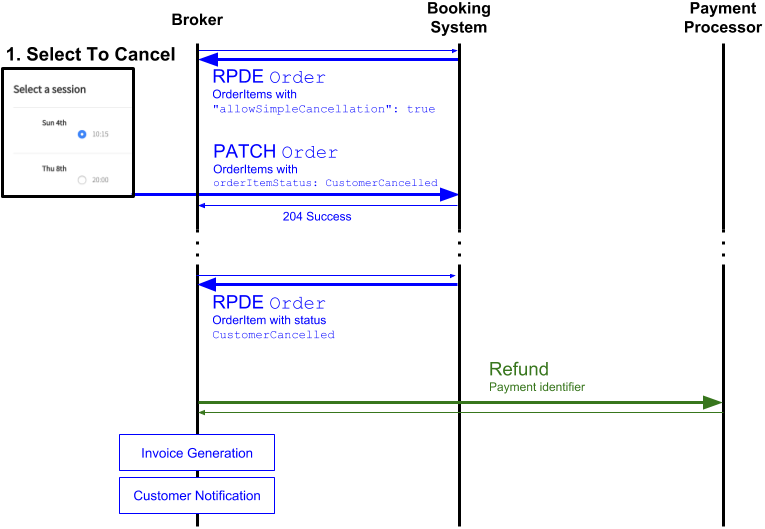
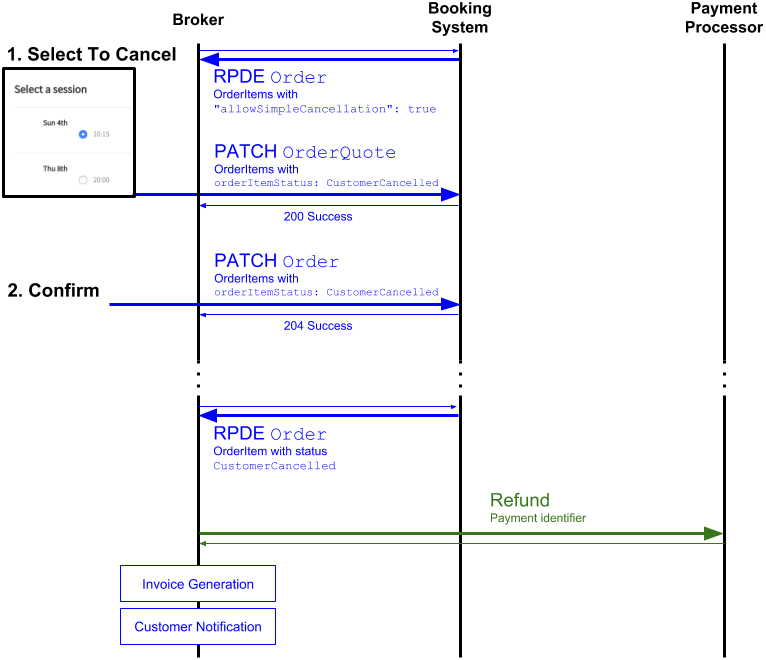
Added cancellation dry-run

diff --git a/EditorsDraft/index.html b/EditorsDraft/index.html
@@ -1158,20 +1158,18 @@ The scope of this specification does not include the contractual relationship wi
 ]</pre>
         </div></section></section><section id="amending-the-orderquote-before-b"><h3 id="x8-2-amending-the-orderquote-before-b"><span class="secno">8.2 </span>Amending the OrderQuote before <strong>B</strong><a class="self-link" aria-label="§" href="#amending-the-orderquote-before-b"></a></h3><p>The <a href="#dfn-broker" class="internalDFN" data-link-type="dfn">Broker</a> <em class="rfc2119" title="MAY">MAY</em> call <strong>C1</strong> and <em class="rfc2119" title="MUST">MUST</em> call <strong>C2</strong> when the <a href="#dfn-customer" class="internalDFN" data-link-type="dfn">Customer</a> updates their basket to add and remove items.</p><p>When repeated calls to <strong>C1</strong> or <strong>C2</strong> are made with the same UUID, the <a href="#dfn-booking-system" class="internalDFN" data-link-type="dfn">Booking System</a> <em class="rfc2119" title="MUST">MUST</em> expire the leases of items that have been removed from the basket.</p><p>All leases may be cancelled by submitting an <code>OrderQuote</code> with the same UUID but without any <code>orderItem</code>s as either <strong>C1</strong> or <strong>C2</strong>. The <a href="#dfn-broker" class="internalDFN" data-link-type="dfn">Broker</a> <em class="rfc2119" title="SHOULD">SHOULD</em> make a reasonable attempt to cancel all leases when it is aware that a <a href="#dfn-customer" class="internalDFN" data-link-type="dfn">Customer</a> has abandoned their journey. For <a href="#dfn-booking-system" class="internalDFN" data-link-type="dfn">Booking Systems</a> that have not implemented leasing, an <code>OrderQuote</code> without any <code>orderItem</code>s can simply be ignored.</p></section><section id="cancellation-after-b"><h3 id="x8-3-cancellation-after-b"><span class="secno">8.3 </span>Cancellation after <strong>B</strong><a class="self-link" aria-label="§" href="#cancellation-after-b"></a></h3><p>Either the whole <code>Order</code> or individual <code>OrderItem</code>s within the <code>Order</code> may be cancelled after <strong>B</strong>, however <code>OrderItem</code>s cannot be replaced or added to an existing <code>Order</code> within this version of the specification.</p><p>The cancellation may be requested by either the <a href="#dfn-customer" class="internalDFN" data-link-type="dfn">Customer</a> or the <a href="#dfn-seller" class="internalDFN" data-link-type="dfn">Seller</a>, and results in an updated <code>Order</code> item on the <a href="#dfn-orders-feed" class="internalDFN" data-link-type="dfn">Orders feed</a>. Once a cancellation status is placed on an <code>OrderItem</code> within an <code>Order</code> in the <a href="#dfn-orders-feed" class="internalDFN" data-link-type="dfn">Orders feed</a> it is assumed by the <a href="#dfn-booking-system" class="internalDFN" data-link-type="dfn">Booking System</a> to have been processed, and it <em class="rfc2119" title="MUST NOT">MUST NOT</em> be reversed. A new <code>Order</code> will need to created to reinstate the booking.</p><div class="issue" id="issue-container-number-97"><div role="heading" class="issue-title marker" id="h-issue-1" aria-level="4"><a href="https://github.com/openactive/open-booking-api/issues/97"><span class="issue-number">Issue 97</span></a><span class="issue-label" aria-label="This issue is labelled as Community Feedback Requested.">: Arbitrary refunds are not in scope <a class="respec-gh-label respec-label-light" href="https://github.com/openactive/open-booking-api/issues/?q=is%3Aissue+is%3Aopen+label%3A%22Community+Feedback+Requested%22" style="background-color: rgb(150, 224, 234);">Community Feedback Requested</a></span></div><p>Refunds are only permitted for entire items, and partial item refunds (including cancellation fees) are not in scope for this version of the specification.</p>
 <p>Although it is understood that some booking systems support partial item refunds, this is a superset of the functionality currently offered within the specification, so should not be an issue for refunds triggered due to cancellations via the <strong>Broker</strong>. As it stands <strong>Seller</strong> requested cancellation will be limited to whole item refunds and no cancellation fees.</p>
-<p>Please comment if partial item refunds or cancellation fees are essential to your usecase.</p></div><section id="customer-requested-cancellation"><h4 id="x8-3-1-customer-requested-cancellation"><span class="secno">8.3.1 </span>Customer requested cancellation<a class="self-link" aria-label="§" href="#customer-requested-cancellation"></a></h4><figure id="fig-customer-requested-cancellation"><img src="customercancelled.png" alt="Customer requested cancellation" height="529" width="765">
+<p>Please comment if partial item refunds or cancellation fees are essential to your usecase.</p></div><section id="customer-requested-cancellation"><h4 id="x8-3-1-customer-requested-cancellation"><span class="secno">8.3.1 </span>Customer requested cancellation<a class="self-link" aria-label="§" href="#customer-requested-cancellation"></a></h4><figure id="fig-customer-requested-cancellation"><img src="customercancelled.png" alt="Customer requested cancellation" height="660" width="766">
 <figcaption>Figure <span class="figno">9</span> <span class="fig-title">Customer requested cancellation</span></figcaption>
 </figure><p>To cancel an existing OrderItem, the <a href="#dfn-broker" class="internalDFN" data-link-type="dfn">Broker</a> <em class="rfc2119" title="MUST">MUST</em>:</p><ol>
 <li><p>Use the latest state of the <code>Order</code> stored during the booking flow and updated via the <a href="#dfn-orders-feed" class="internalDFN" data-link-type="dfn">Orders feed</a> to determine which <code>OrderItem</code>s may be cancelled. If <code>allowSimpleCancellation</code> is <code>true</code> and <code>latestCancellationBeforeStartDate</code> subtracted from the opportunity <code>startDate</code> is in the future, a PATCH against the <code>Order</code> including the <code>OrderItem</code> with <code>"orderItemStatus": "https://openactive.io/CustomerCancelled"</code> <em class="rfc2119" title="MUST">MUST</em> succeed.</p>
 </li>
-<li><p>Inform the <a href="#dfn-customer" class="internalDFN" data-link-type="dfn">Customer</a> of the expected refund before they commit to cancellation, where the value of the refund for each <code>OrderItem</code> <em class="rfc2119" title="MUST">MUST</em> be equal to:
-(i) for <code>taxMode</code> of <code>https://openactive/TaxNet</code>, the sum of the <code>price</code> in the <code>acceptedOffer</code> and all the prices in <code>unitTaxSpecification</code>;
-(ii) for <code>taxMode</code> of <code>https://openactive/TaxGross</code>, the <code>price</code> in the <code>acceptedOffer</code>.</p>
+<li><p>Inform the <a href="#dfn-customer" class="internalDFN" data-link-type="dfn">Customer</a> of the expected refund before they commit to cancellation, where the value of the refund for each <code>OrderItem</code> can be obtained by submitting a PATCH of type <code>OrderQuote</code> including only the <code>id</code> for each of the <code>OrderItem</code>s to be cancelled, with an <code>"orderItemStatus": "https://openactive.io/CustomerCancelled"</code> set on each. This will return an updated <code>OrderQuote</code> with a <code>totalPaymentDue</code>, which can be used by the <code>Broker</code> to display the expected refund to the <code>Customer</code> and have them confirm they wish to proceed.</p>
 </li>
 <li><p>Submit a PATCH for the <code>Order</code> including only the <code>id</code> for each of the <code>OrderItem</code>s to be cancelled, with an <code>"orderItemStatus": "https://openactive.io/CustomerCancelled"</code> set on each. On success, a 204 response will be received, without any body. On failure a 5xx response will be received with an error message.</p>
 </li>
-<li><p>Process any refunds based on the resulting updates to the <a href="#dfn-orders-feed" class="internalDFN" data-link-type="dfn">Orders feed</a>. Successfully cancelled <code>OrderItems</code> will have <code>orderItemStatus</code> set to <code>https://openactive.io/CustomerCancelled</code>. Note refunds <em class="rfc2119" title="MUST NOT">MUST NOT</em> be processed except in response to updates in the <a href="#dfn-orders-feed" class="internalDFN" data-link-type="dfn">Orders feed</a>.</p>
+<li><p>Process any refunds based on the resulting updates to the <a href="#dfn-orders-feed" class="internalDFN" data-link-type="dfn">Orders feed</a>, based on the updated <code>totalPaymentDue</code>. Successfully cancelled <code>OrderItems</code> will have <code>orderItemStatus</code> set to <code>https://openactive.io/CustomerCancelled</code>. Note refunds <em class="rfc2119" title="MUST NOT">MUST NOT</em> be processed except in response to updates in the <a href="#dfn-orders-feed" class="internalDFN" data-link-type="dfn">Orders feed</a>.</p>
 </li>
-</ol><p>To cancel an entire <code>Order</code>, a single PATCH request <em class="rfc2119" title="MUST">MUST</em> be made including <code>"orderItemStatus": "https://openactive.io/CustomerCancelled"</code> for each <code>OrderItem</code> within it.</p><p>Note that there is no provision for a <a href="#dfn-customer" class="internalDFN" data-link-type="dfn">Customer</a> to cancel an <code>Order</code> after the cancellation window specified by `latestCancellationBeforeStartDate. They may wish to do this out of politeness even though no refund is possible, with the benefit that their place may be taken by another participant, which can be included in future versions of this specification.</p><div class="issue" id="issue-container-number-92"><div role="heading" class="issue-title marker" id="h-issue-2" aria-level="5"><a href="https://github.com/openactive/open-booking-api/issues/92"><span class="issue-number">Issue 92</span></a><span class="issue-label" aria-label="This issue is labelled as Community Feedback Requested.">: Allow whole Order cancellation? <a class="respec-gh-label respec-label-light" href="https://github.com/openactive/open-booking-api/issues/?q=is%3Aissue+is%3Aopen+label%3A%22Community+Feedback+Requested%22" style="background-color: rgb(150, 224, 234);">Community Feedback Requested</a></span></div><p>Should we allow the cancellation of a whole <code>Order</code>?</p>
+</ol><p>To cancel an entire <code>Order</code>, the PATCH request <em class="rfc2119" title="MUST">MUST</em> include <code>"orderItemStatus": "https://openactive.io/CustomerCancelled"</code> for each <code>OrderItem</code> within it.</p><p>Note that there is no provision for a <a href="#dfn-customer" class="internalDFN" data-link-type="dfn">Customer</a> to cancel an <code>Order</code> after the cancellation window specified by `latestCancellationBeforeStartDate. They may wish to do this out of politeness even though no refund is possible, with the benefit that their place may be taken by another participant, which can be included in future versions of this specification.</p><div class="issue" id="issue-container-number-92"><div role="heading" class="issue-title marker" id="h-issue-2" aria-level="5"><a href="https://github.com/openactive/open-booking-api/issues/92"><span class="issue-number">Issue 92</span></a><span class="issue-label" aria-label="This issue is labelled as Community Feedback Requested.">: Allow whole Order cancellation? <a class="respec-gh-label respec-label-light" href="https://github.com/openactive/open-booking-api/issues/?q=is%3Aissue+is%3Aopen+label%3A%22Community+Feedback+Requested%22" style="background-color: rgb(150, 224, 234);">Community Feedback Requested</a></span></div><p>Should we allow the cancellation of a whole <code>Order</code>?</p>
 <p>Pros:</p>
 <ul>
 <li>Easier for broker</li>
@@ -2194,9 +2192,29 @@ defined elsewhere.</p><p>The corresponding <code>Order</code> <em class="rfc2119
 <td>PATCH</td>
 <td><code>/orders/{uuid}</code></td>
 </tr>
-</tbody></table><p>All other properties except the <code>id</code> and <code>orderItemStatus</code> inside the <code>OrderItem</code> <em class="rfc2119" title="MUST">MUST</em> be ignored. <code>OrderItem</code>s omitted from the PATCH request <em class="rfc2119" title="MUST">MUST</em> also be ignored.</p><div class="example" id="example-19-orderitem-cancellation-example-request">
+</tbody></table><p>All other properties except the <code>id</code> and <code>orderItemStatus</code> inside the <code>OrderItem</code> <em class="rfc2119" title="MUST">MUST</em> be ignored. <code>OrderItem</code>s omitted from the PATCH request <em class="rfc2119" title="MUST">MUST</em> also be ignored.</p><p>A dry-run of the call <em class="rfc2119" title="MAY">MAY</em> be used to inform the user of the refund they can expect (note the response represents only a partial <code>OrderQuote</code>, which <em class="rfc2119" title="SHOULD">SHOULD</em> be combined with the <code>Order</code> stored in the <code>Broker</code> to create a full view).</p><div class="example" id="example-19-orderitem-cancellation-example-orderquote-request">
           <div class="marker">
-      <a class="self-link" href="#example-19-orderitem-cancellation-example-request">Example 19</a><span class="example-title">: OrderItem Cancellation: example request</span>
+      <a class="self-link" href="#example-19-orderitem-cancellation-example-orderquote-request">Example 19</a><span class="example-title">: OrderItem Cancellation: example OrderQuote request</span>
+    </div>
+          <pre class="hljs http" aria-busy="false"><span class="hljs-keyword">PATCH</span> <span class="hljs-string">/api/orders/e11429ea-467f-4270-ab62-e47368996fe8</span> HTTP/1.1
+<span class="hljs-attribute">Host</span>: example.com
+<span class="hljs-attribute">Date</span>: Mon, 8 Oct 2018 20:52:35 GMT
+<span class="hljs-attribute">Accept</span>: application/vnd.openactive+json; model=2.0, booking=1.0, rpde=1.0
+
+<span class="json">{
+  <span class="hljs-attr">"@context"</span>: <span class="hljs-string">"https://openactive.io/"</span>,
+  <span class="hljs-attr">"type"</span>: <span class="hljs-string">"OrderQuote"</span>,
+  <span class="hljs-attr">"orderedItem"</span>: [
+    {
+      <span class="hljs-attr">"type"</span>: <span class="hljs-string">"OrderItem"</span>,
+      <span class="hljs-attr">"id"</span>: <span class="hljs-string">"https://example.com/api/orders/123e4567-e89b-12d3-a456-426655440000/order-items/1234"</span>,
+      <span class="hljs-attr">"orderItemStatus"</span>: <span class="hljs-string">"https://openactive.io/CustomerCancelled"</span>
+    }
+  ]
+}</span></pre>
+        </div><p>Whether or not the dry-run was completed, the cancellation may be requested:</p><div class="example" id="example-20-orderitem-cancellation-example-order-request">
+          <div class="marker">
+      <a class="self-link" href="#example-20-orderitem-cancellation-example-order-request">Example 20</a><span class="example-title">: OrderItem Cancellation: example Order request</span>
     </div>
           <pre class="hljs http" aria-busy="false"><span class="hljs-keyword">PATCH</span> <span class="hljs-string">/api/orders/e11429ea-467f-4270-ab62-e47368996fe8</span> HTTP/1.1
 <span class="hljs-attribute">Host</span>: example.com
@@ -2214,9 +2232,9 @@ defined elsewhere.</p><p>The corresponding <code>Order</code> <em class="rfc2119
     }
   ]
 }</span></pre>
-        </div><p>The cancellation request succeeds and fails atomically.</p><div class="example" id="example-20-orderitem-cancellation-example-success-response">
+        </div><p>The cancellation request succeeds and fails atomically.</p><div class="example" id="example-21-orderitem-cancellation-example-success-response">
           <div class="marker">
-      <a class="self-link" href="#example-20-orderitem-cancellation-example-success-response">Example 20</a><span class="example-title">: OrderItem Cancellation: example success response</span>
+      <a class="self-link" href="#example-21-orderitem-cancellation-example-success-response">Example 21</a><span class="example-title">: OrderItem Cancellation: example success response</span>
     </div>
           <pre class="hljs http" aria-busy="false">HTTP/1.1 <span class="hljs-number">204</span> No Content
 <span class="hljs-attribute">Date</span>: Mon, 8 Oct 2018 20:52:36 GMT
@@ -2238,17 +2256,17 @@ defined elsewhere.</p><p>The corresponding <code>Order</code> <em class="rfc2119
 <td>GET</td>
 <td><code>/orders-rpde</code></td>
 </tr>
-</tbody></table><div class="example" id="example-21-order-rpde-feed-example-request">
+</tbody></table><div class="example" id="example-22-order-rpde-feed-example-request">
           <div class="marker">
-      <a class="self-link" href="#example-21-order-rpde-feed-example-request">Example 21</a><span class="example-title">: Order RPDE Feed: example request</span>
+      <a class="self-link" href="#example-22-order-rpde-feed-example-request">Example 22</a><span class="example-title">: Order RPDE Feed: example request</span>
     </div>
           <pre class="hljs http" aria-busy="false"><span class="hljs-keyword">GET</span> <span class="hljs-string">/api/orders-rpde</span> HTTP/1.1
 <span class="hljs-attribute">Host</span>: example.com
 <span class="hljs-attribute">Date</span>: Mon, 8 Oct 2018 20:52:35 GMT
 <span class="hljs-attribute">Accept</span>: application/vnd.openactive+json; model=2.0, booking=1.0, rpde=1.0</pre>
-        </div><div class="example" id="example-22-order-rpde-feed-example-response">
+        </div><div class="example" id="example-23-order-rpde-feed-example-response">
           <div class="marker">
-      <a class="self-link" href="#example-22-order-rpde-feed-example-response">Example 22</a><span class="example-title">: Order RPDE Feed: example response</span>
+      <a class="self-link" href="#example-23-order-rpde-feed-example-response">Example 23</a><span class="example-title">: Order RPDE Feed: example response</span>
     </div>
           <pre class="hljs http" aria-busy="false">HTTP/1.1 <span class="hljs-number">200</span> OK
 <span class="hljs-attribute">Date</span>: Mon, 8 Oct 2018 20:52:36 GMT
@@ -2333,17 +2351,17 @@ defined elsewhere.</p><p>The corresponding <code>Order</code> <em class="rfc2119
 <td>GET</td>
 <td><code>/orders/{uuid}</code></td>
 </tr>
-</tbody></table><div class="example" id="example-23-order-status-example-request">
+</tbody></table><div class="example" id="example-24-order-status-example-request">
           <div class="marker">
-      <a class="self-link" href="#example-23-order-status-example-request">Example 23</a><span class="example-title">: Order Status: example request</span>
+      <a class="self-link" href="#example-24-order-status-example-request">Example 24</a><span class="example-title">: Order Status: example request</span>
     </div>
           <pre class="hljs http" aria-busy="false"><span class="hljs-keyword">GET</span> <span class="hljs-string">/api/orders/e11429ea-467f-4270-ab62-e47368996fe8</span> HTTP/1.1
 <span class="hljs-attribute">Host</span>: example.com
 <span class="hljs-attribute">Date</span>: Mon, 8 Oct 2018 20:52:35 GMT
 <span class="hljs-attribute">Accept</span>: application/vnd.openactive+json; model=2.0, booking=1.0, rpde=1.0</pre>
-        </div><div class="example" id="example-24-order-status-example-response">
+        </div><div class="example" id="example-25-order-status-example-response">
           <div class="marker">
-      <a class="self-link" href="#example-24-order-status-example-response">Example 24</a><span class="example-title">: Order Status: example response</span>
+      <a class="self-link" href="#example-25-order-status-example-response">Example 25</a><span class="example-title">: Order Status: example response</span>
     </div>
           <pre class="hljs http" aria-busy="false">HTTP/1.1 <span class="hljs-number">200</span> OK
 <span class="hljs-attribute">Date</span>: Mon, 8 Oct 2018 20:52:36 GMT
@@ -2521,9 +2539,9 @@ defined elsewhere.</p><p>The corresponding <code>Order</code> <em class="rfc2119
         </div></section><section id="url-discovery"><h4 id="x9-2-6-url-discovery"><span class="secno">9.2.6 </span>URL discovery<a class="self-link" aria-label="§" href="#url-discovery"></a></h4><p>The URL for the initial Order Creation action <em class="rfc2119" title="MUST">MUST</em> be discoverable by parsing the
 <code>OpenBookingAction</code> defined in the <code>potentialAction</code> property of the published
 <code>Dataset</code> embedded within dataset site.</p><p>The <code>EntryPoint</code> object <em class="rfc2119" title="MUST">MUST</em> state the <code>url</code> of the Order Creation endpoint, and <em class="rfc2119" title="MUST">MUST</em>
-contain the <code>encodingType</code> and the <code>httpMethod</code> as <code>PUT</code>.</p><div class="example" id="example-25-example-of-a-potentialaction">
+contain the <code>encodingType</code> and the <code>httpMethod</code> as <code>PUT</code>.</p><div class="example" id="example-26-example-of-a-potentialaction">
           <div class="marker">
-      <a class="self-link" href="#example-25-example-of-a-potentialaction">Example 25</a><span class="example-title">: Example of a potentialAction</span>
+      <a class="self-link" href="#example-26-example-of-a-potentialaction">Example 26</a><span class="example-title">: Example of a potentialAction</span>
     </div>
           <pre class="hljs javascript" aria-busy="false"><span class="hljs-string">"potentialAction"</span>: {
   <span class="hljs-string">"@type"</span>: <span class="hljs-string">"OpenBookingAction"</span>,
@@ -2559,9 +2577,9 @@ for a specific action based on patterns within previously used URLs.</p><p>It is
 further activity in the booking workflow at the point of need. For example they
 <em class="rfc2119" title="MUST">MUST</em> advertise the URL for the <code>OrderItem</code> resource in the Orders <a href="#dfn-orders-feed" class="internalDFN" data-link-type="dfn">Orders feed</a>
 by including the <code>id</code> property within the <code>OrderItem</code>.</p><div class="issue" id="issue-container-number-94"><div role="heading" class="issue-title marker" id="h-issue-7" aria-level="5"><a href="https://github.com/openactive/open-booking-api/issues/94"><span class="issue-number">Issue 94</span></a><span class="issue-label" aria-label="This issue is labelled as Community Feedback Requested.">: URL Discovery using the Dataset Site <a class="respec-gh-label respec-label-light" href="https://github.com/openactive/open-booking-api/issues/?q=is%3Aissue+is%3Aopen+label%3A%22Community+Feedback+Requested%22" style="background-color: rgb(150, 224, 234);">Community Feedback Requested</a></span></div><p>The specification proposes to centralise URL discovery in the Dataset site, along with the feeds themselves.</p>
-<p>Feedback on this approach welcome.</p></div><section id="example"><h5 id="x9-2-6-1-example"><span class="secno">9.2.6.1 </span>Example<a class="self-link" aria-label="§" href="#example"></a></h5><div class="example" id="example-26-example-of-dataset-site-embedded-json-ld">
+<p>Feedback on this approach welcome.</p></div><section id="example"><h5 id="x9-2-6-1-example"><span class="secno">9.2.6.1 </span>Example<a class="self-link" aria-label="§" href="#example"></a></h5><div class="example" id="example-27-example-of-dataset-site-embedded-json-ld">
           <div class="marker">
-      <a class="self-link" href="#example-26-example-of-dataset-site-embedded-json-ld">Example 26</a><span class="example-title">: Example of Dataset site embedded JSON-LD</span>
+      <a class="self-link" href="#example-27-example-of-dataset-site-embedded-json-ld">Example 27</a><span class="example-title">: Example of Dataset site embedded JSON-LD</span>
     </div>
           <pre class="hljs xml" aria-busy="false"><span class="hljs-tag">&lt;<span class="hljs-name">script</span> <span class="hljs-attr">type</span>=<span class="hljs-string">"application/ld+json"</span>&gt;</span><span class="javascript">
 {
@@ -4022,17 +4040,17 @@ version you should always try to use a media type containing the version number.
 <p>Please comment on this issue if you can foresee any challenges with this.</p></div></section><section id="response-formats"><h3 id="x11-2-response-formats"><span class="secno">11.2 </span>Response formats<a class="self-link" aria-label="§" href="#response-formats"></a></h3><p>Requests and response documents exchanged via this API will all be valid
 [<cite><a class="bibref" href="#bib-json-ld">JSON-LD</a></cite>] documents, with the exception of the <a href="#dfn-orders-feed" class="internalDFN" data-link-type="dfn">Orders feed</a>, where only documents
 included in the <code>data</code> property are valid [<cite><a class="bibref" href="#bib-json-ld">JSON-LD</a></cite>].</p><p>The [<cite><a class="bibref" href="#bib-json-ld">JSON-LD</a></cite>] documents <em class="rfc2119" title="MUST">MUST</em> include a [<cite><a class="bibref" href="#bib-json-ld">JSON-LD</a></cite>] <code>context</code> that refers
-to the [<cite><a class="bibref" href="#bib-openactive-vocabulary">OpenActive-Vocabulary</a></cite>] as follows:</p><div class="example" id="example-27-minimal-json-ld-document">
+to the [<cite><a class="bibref" href="#bib-openactive-vocabulary">OpenActive-Vocabulary</a></cite>] as follows:</p><div class="example" id="example-28-minimal-json-ld-document">
           <div class="marker">
-      <a class="self-link" href="#example-27-minimal-json-ld-document">Example 27</a><span class="example-title">: minimal JSON-LD document</span>
+      <a class="self-link" href="#example-28-minimal-json-ld-document">Example 28</a><span class="example-title">: minimal JSON-LD document</span>
     </div>
           <pre class="hljs json" aria-busy="false">{
   <span class="hljs-attr">"@context"</span>: <span class="hljs-string">"https://openactive.io/"</span>
 }</pre>
         </div><p>Unless otherwise specified the request and response documents <em class="rfc2119" title="MUST">MUST</em> conform to
-the [<cite><a class="bibref" href="#bib-modelling-opportunity-data">Modelling-Opportunity-Data</a></cite>] data model.</p></section><section id="errors"><h3 id="x11-3-errors"><span class="secno">11.3 </span>Errors<a class="self-link" aria-label="§" href="#errors"></a></h3><p>Error responses <em class="rfc2119" title="MUST">MUST</em> be served using an appropriate HTTP 4XX status code or HTTP 5XX status code specified in the model.</p><p>All error responses from this API <em class="rfc2119" title="MUST">MUST</em> be returned in a JSON-LD format subclass of the <code>OpenBookingError</code> using a content type of <code>application/vnd.openactive+json</code> (optionally including any version parameters).</p><div class="example" id="example-28-error-response-example">
+the [<cite><a class="bibref" href="#bib-modelling-opportunity-data">Modelling-Opportunity-Data</a></cite>] data model.</p></section><section id="errors"><h3 id="x11-3-errors"><span class="secno">11.3 </span>Errors<a class="self-link" aria-label="§" href="#errors"></a></h3><p>Error responses <em class="rfc2119" title="MUST">MUST</em> be served using an appropriate HTTP 4XX status code or HTTP 5XX status code specified in the model.</p><p>All error responses from this API <em class="rfc2119" title="MUST">MUST</em> be returned in a JSON-LD format subclass of the <code>OpenBookingError</code> using a content type of <code>application/vnd.openactive+json</code> (optionally including any version parameters).</p><div class="example" id="example-29-error-response-example">
           <div class="marker">
-      <a class="self-link" href="#example-28-error-response-example">Example 28</a><span class="example-title">: Error response example</span>
+      <a class="self-link" href="#example-29-error-response-example">Example 29</a><span class="example-title">: Error response example</span>
     </div>
           <pre class="hljs http" aria-busy="false">HTTP/1.1 <span class="hljs-number">400</span> Bad Request
 <span class="hljs-attribute">Date</span>: Mon, 8 Oct 2018 20:52:36 GMT
@@ -4043,9 +4061,9 @@ the [<cite><a class="bibref" href="#bib-modelling-opportunity-data">Modelling-Op
   <span class="hljs-attr">"type"</span>: <span class="hljs-string">"IncompleteCustomerDetailsError"</span>,
   <span class="hljs-attr">"description"</span>: <span class="hljs-string">"No customer details supplied"</span>
 }</span></pre>
-        </div></section><section id="rate-limiting"><h3 id="x11-4-rate-limiting"><span class="secno">11.4 </span>Rate Limiting<a class="self-link" aria-label="§" href="#rate-limiting"></a></h3><p>The <a href="#dfn-booking-system" class="internalDFN" data-link-type="dfn">Booking System</a> <em class="rfc2119" title="MAY">MAY</em> choose to apply rate limiting for each unique set of authentication credentials, in which case they <em class="rfc2119" title="MUST">MUST</em> adhere to the following.</p><p>All rate-limited responses from this API <em class="rfc2119" title="MUST">MUST</em> return a JSON-LD format <code>TooManyRequestsError</code> object using a content type of <code>application/vnd.openactive+json</code> (optionally including any version parameters).</p><p>The response <em class="rfc2119" title="MUST">MUST</em> also include the <code>Retry-After</code> HTTP Header with a value set to the number of seconds after which the <a href="#dfn-broker" class="internalDFN" data-link-type="dfn">Broker</a> <em class="rfc2119" title="SHOULD">SHOULD</em> retry as per [<cite><a class="bibref" href="#bib-rfc2616">RFC2616</a></cite>] section 14.37.</p><div class="example" id="example-29-rate-limited-response-example">
+        </div></section><section id="rate-limiting"><h3 id="x11-4-rate-limiting"><span class="secno">11.4 </span>Rate Limiting<a class="self-link" aria-label="§" href="#rate-limiting"></a></h3><p>The <a href="#dfn-booking-system" class="internalDFN" data-link-type="dfn">Booking System</a> <em class="rfc2119" title="MAY">MAY</em> choose to apply rate limiting for each unique set of authentication credentials, in which case they <em class="rfc2119" title="MUST">MUST</em> adhere to the following.</p><p>All rate-limited responses from this API <em class="rfc2119" title="MUST">MUST</em> return a JSON-LD format <code>TooManyRequestsError</code> object using a content type of <code>application/vnd.openactive+json</code> (optionally including any version parameters).</p><p>The response <em class="rfc2119" title="MUST">MUST</em> also include the <code>Retry-After</code> HTTP Header with a value set to the number of seconds after which the <a href="#dfn-broker" class="internalDFN" data-link-type="dfn">Broker</a> <em class="rfc2119" title="SHOULD">SHOULD</em> retry as per [<cite><a class="bibref" href="#bib-rfc2616">RFC2616</a></cite>] section 14.37.</p><div class="example" id="example-30-rate-limited-response-example">
           <div class="marker">
-      <a class="self-link" href="#example-29-rate-limited-response-example">Example 29</a><span class="example-title">: Rate limited response example</span>
+      <a class="self-link" href="#example-30-rate-limited-response-example">Example 30</a><span class="example-title">: Rate limited response example</span>
     </div>
           <pre class="hljs http" aria-busy="false">HTTP/1.1 <span class="hljs-number">429</span> Too Many Requests
 <span class="hljs-attribute">Date</span>: Mon, 8 Oct 2018 20:52:36 GMT

diff --git a/EditorsDraft/edit.html b/EditorsDraft/edit.html
@@ -948,21 +948,20 @@ To cancel an existing OrderItem, the <a>Broker</a> MUST:
 
 1. Use the latest state of the `Order` stored during the booking flow and updated via the <a>Orders feed</a> to determine which `OrderItem`s may be cancelled. If `allowSimpleCancellation` is `true` and `latestCancellationBeforeStartDate` subtracted from the opportunity `startDate` is in the future, a PATCH against the `Order` including the `OrderItem` with `"orderItemStatus": "https://openactive.io/CustomerCancelled"` MUST succeed.
 
-2. Inform the <a>Customer</a> of the expected refund before they commit to cancellation, where the value of the refund for each `OrderItem` MUST be equal to:
-  (i) for `taxMode` of `https://openactive/TaxNet`, the sum of the `price` in the `acceptedOffer` and all the prices in `unitTaxSpecification`;
-  (ii) for `taxMode` of `https://openactive/TaxGross`, the `price` in the `acceptedOffer`.
+2. Inform the <a>Customer</a> of the expected refund before they commit to cancellation, where the value of the refund for each `OrderItem` can be obtained by submitting a PATCH of type `OrderQuote` including only the `id` for each of the `OrderItem`s to be cancelled, with an `"orderItemStatus": "https://openactive.io/CustomerCancelled"` set on each. This will return an updated `OrderQuote` with a `totalPaymentDue`, which can be used by the `Broker` to display the expected refund to the `Customer` and have them confirm they wish to proceed.
 
 3. Submit a PATCH for the `Order` including only the `id` for each of the `OrderItem`s to be cancelled, with an `"orderItemStatus": "https://openactive.io/CustomerCancelled"` set on each. On success, a 204 response will be received, without any body. On failure a 5xx response will be received with an error message.
 
-4. Process any refunds based on the resulting updates to the <a>Orders feed</a>. Successfully cancelled `OrderItems` will have `orderItemStatus` set to `https://openactive.io/CustomerCancelled`. Note refunds MUST NOT be processed except in response to updates in the <a>Orders feed</a>.
+4. Process any refunds based on the resulting updates to the <a>Orders feed</a>, based on the updated `totalPaymentDue`. Successfully cancelled `OrderItems` will have `orderItemStatus` set to `https://openactive.io/CustomerCancelled`. Note refunds MUST NOT be processed except in response to updates in the <a>Orders feed</a>.
 
-To cancel an entire `Order`, a single PATCH request MUST be made including `"orderItemStatus": "https://openactive.io/CustomerCancelled"` for each `OrderItem` within it.
+To cancel an entire `Order`, the PATCH request MUST include `"orderItemStatus": "https://openactive.io/CustomerCancelled"` for each `OrderItem` within it.
 
 Note that there is no provision for a <a>Customer</a> to cancel an `Order` after the cancellation window specified by `latestCancellationBeforeStartDate. They may wish to do this out of politeness even though no refund is possible, with the benefit that their place may be taken by another participant, which can be included in future versions of this specification.
 
 <div class="issue" data-number="92"></div>
 
 <div class="issue" data-number="102"></div>
+
 
 
 ### Seller requested cancellation
@@ -1266,7 +1265,14 @@ The corresponding `Order` MUST be marked as `deleted` in the <a>Orders feed</a>.
 
 All other properties except the `id` and `orderItemStatus` inside the `OrderItem` MUST be ignored. `OrderItem`s omitted from the PATCH request MUST also be ignored.
 
-<pre class="example" title="OrderItem Cancellation: example request" data-transform="dataExampleOrderItemCancellationRequest">
+A dry-run of the call MAY be used to inform the user of the refund they can expect (note the response represents only a partial `OrderQuote`, which SHOULD be combined with the `Order` stored in the `Broker` to create a full view).
+
+<pre class="example" title="OrderItem Cancellation: example OrderQuote request" data-transform="dataExampleOrderItemCancellationQuoteRequest">
+</pre>
+
+Whether or not the dry-run was completed, the cancellation may be requested:
+
+<pre class="example" title="OrderItem Cancellation: example Order request" data-transform="dataExampleOrderItemCancellationRequest">
 </pre>
 
 The cancellation request succeeds and fails atomically.

diff --git a/EditorsDraft/examples.js b/EditorsDraft/examples.js
@@ -252,6 +252,26 @@ function dataExampleOrderFeedResponse(utils, content) {
   });
 }
 
+function dataExampleOrderItemCancellationQuoteRequest(utils, content) {
+  return generateRequest("PATCH", API_PATH + "/orders/" + UUID, OPERATIONS_MEDIA_TYPE, {
+    "@context": CONTEXT,
+    "type": "OrderQuote",
+    "orderedItem": [responseCancelledOrderItem]
+  });
+}
+
+function dataExampleOrderItemCancellationQuoteResponse(utils, content) {
+  return generateResponse("200 OK", API_PATH + "/orders/" + UUID, OPERATIONS_MEDIA_TYPE, {
+    "@context": CONTEXT,
+    "type": "OrderQuote",
+    "id": fullOrderExampleContent.id,
+    "taxMode": fullOrderExampleContent.taxMode,
+    "orderedItem": [responseCancelledOrderItem],
+    "totalPaymentDue": fullOrderExampleContent.totalPaymentDue.zeroItems,
+    "totalTaxSpecification": fullOrderExampleContent.totalTaxSpecification.zeroItems
+  });
+}
+
 function dataExampleOrderItemCancellationRequest(utils, content) {
   return generateRequest("PATCH", API_PATH + "/orders/" + UUID, OPERATIONS_MEDIA_TYPE, {
     "@context": CONTEXT,
@@ -259,6 +279,7 @@ function dataExampleOrderItemCancellationRequest(utils, content) {
     "orderedItem": [responseCancelledOrderItem]
   });
 }
+
 
 function dataExampleOrderItemCancellationSuccessResponse(utils, content) {
   return generateResponse("204 No Content", null, OPERATIONS_MEDIA_TYPE);
